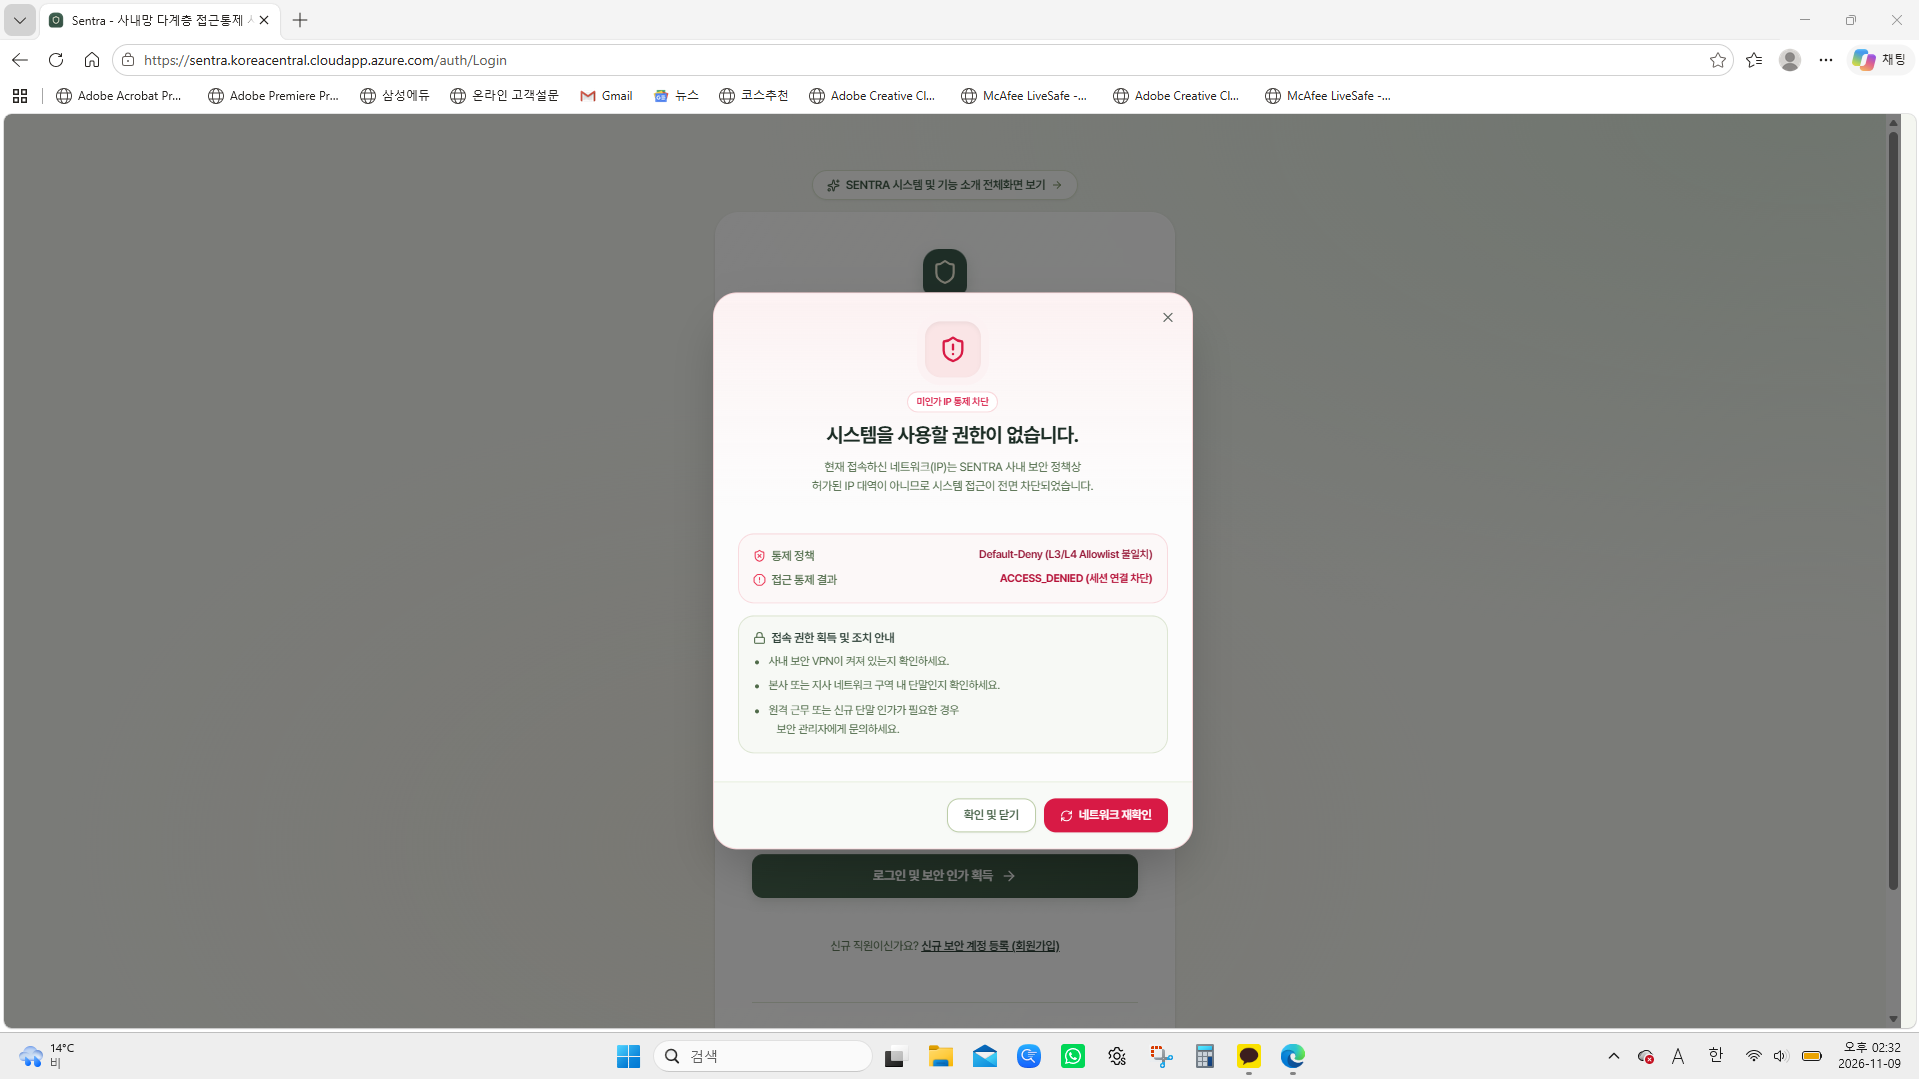
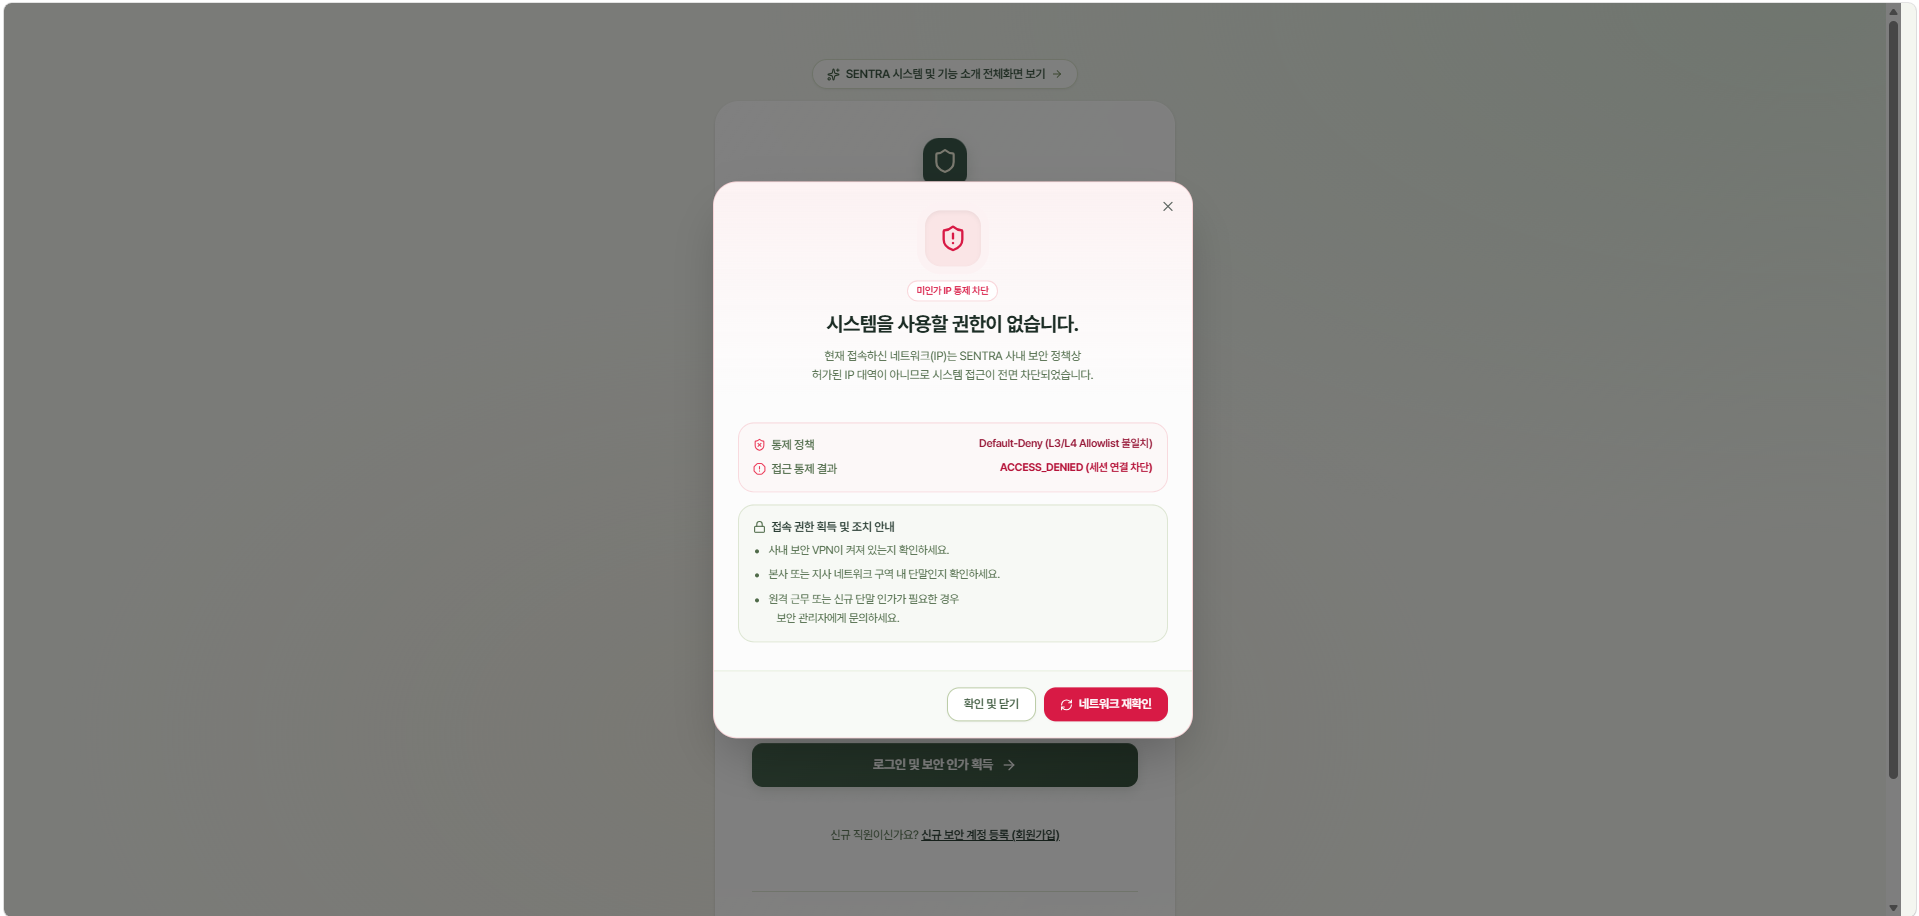
실제 서비스 검증 화면 4종 깔끔하게 크롭된 최신 이미지(imagec1~4)로 교체

diff --git a/index.html b/index.html
@@ -566,10 +566,10 @@
 
           <div class="live-screen-grid">
             <!-- 1. 미인가 IP 차단 모달 -->
-            <div class="live-screen-card" data-src="assets/sentra-ip-block-modal.png"
+            <div class="live-screen-card" data-src="assets/imagec4.png?v=2"
               data-title="미인가 IP 접근 통제 차단 모달 (Default-Deny L3/L4 Allowlist 불일치)">
               <div class="live-screen-thumb">
-                <img src="assets/sentra-ip-block-modal.png" alt="미인가 IP 접근통제 차단 모달 화면">
+                <img src="assets/imagec4.png?v=2" alt="미인가 IP 접근통제 차단 모달 화면">
                 <span class="live-badge live-badge-danger">ACCESS_DENIED</span>
               </div>
               <div class="live-screen-body">
@@ -581,10 +581,10 @@
             </div>
 
             <!-- 2. 보안 관리자 감사 로그 -->
-            <div class="live-screen-card" data-src="assets/sentra-admin-audit-log.png"
+            <div class="live-screen-card" data-src="assets/imagec1.png?v=2"
               data-title="보안 관리자 콘솔 - 실시간 접근 감사 로그 및 비인가 IP 탐지">
               <div class="live-screen-thumb">
-                <img src="assets/sentra-admin-audit-log.png" alt="보안 관리자 콘솔 실시간 접근 감사 로그">
+                <img src="assets/imagec1.png?v=2" alt="보안 관리자 콘솔 실시간 접근 감사 로그">
                 <span class="live-badge live-badge-warning">DENY (ip_not_allowed)</span>
               </div>
               <div class="live-screen-body">
@@ -596,10 +596,10 @@
             </div>
 
             <!-- 3. 웹 패킷 시뮬레이터 -->
-            <div class="live-screen-card" data-src="assets/sentra-web-simulator.png"
+            <div class="live-screen-card" data-src="assets/imagec2.png?v=2"
               data-title="SENTRA / Packet Tracer 웹 토폴로지 시뮬레이터 (패킷 흐름 및 PDU 추적)">
               <div class="live-screen-thumb">
-                <img src="assets/sentra-web-simulator.png" alt="토폴로지 기반 웹 시뮬레이터">
+                <img src="assets/imagec2.png?v=2" alt="토폴로지 기반 웹 시뮬레이터">
                 <span class="live-badge live-badge-info">토폴로지 시각화</span>
               </div>
               <div class="live-screen-body">
@@ -611,10 +611,10 @@
             </div>
 
             <!-- 4. DMZ 서버 정적 NAT 통신 검증 -->
-            <div class="live-screen-card" data-src="assets/sentra-dmz-nat-simulation.png"
+            <div class="live-screen-card" data-src="assets/imagec3.png?v=2"
               data-title="외부망(Google) - 본사 DMZ 서버 간 정적 NAT(포트포워딩) 통신 검증">
               <div class="live-screen-thumb">
-                <img src="assets/sentra-dmz-nat-simulation.png" alt="DMZ 서버 정적 NAT 웹 통신 시뮬레이션">
+                <img src="assets/imagec3.png?v=2" alt="DMZ 서버 정적 NAT 웹 통신 시뮬레이션">
                 <span class="live-badge live-badge-success">정적 NAT (포트포워딩)</span>
               </div>
               <div class="live-screen-body">
